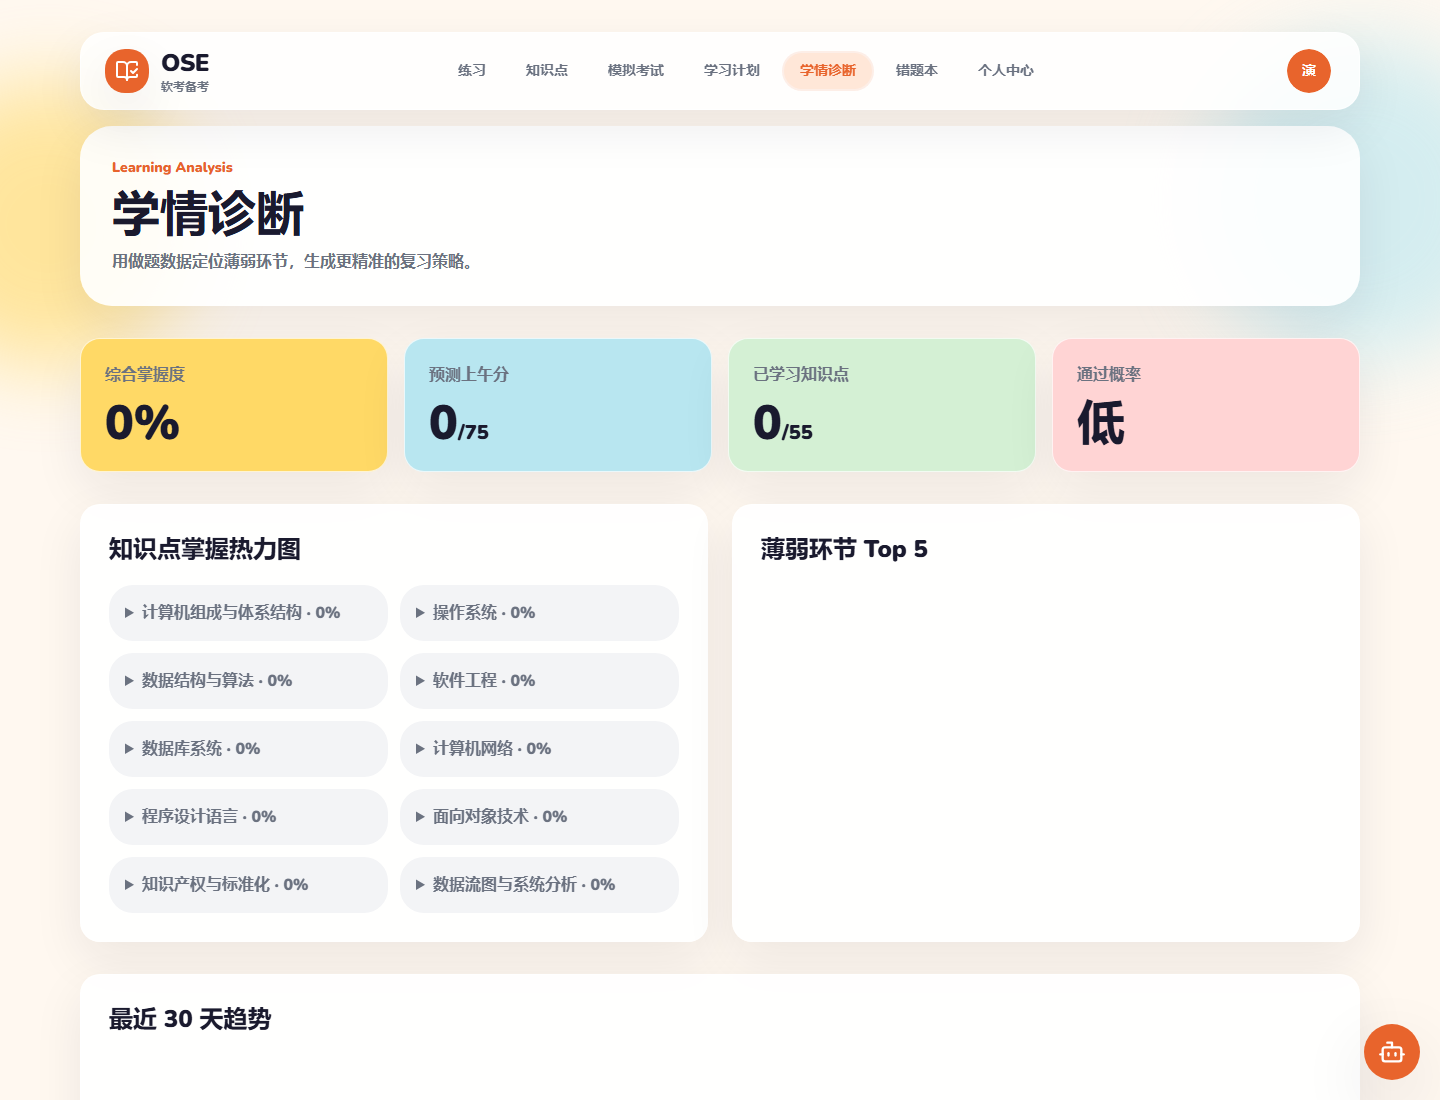
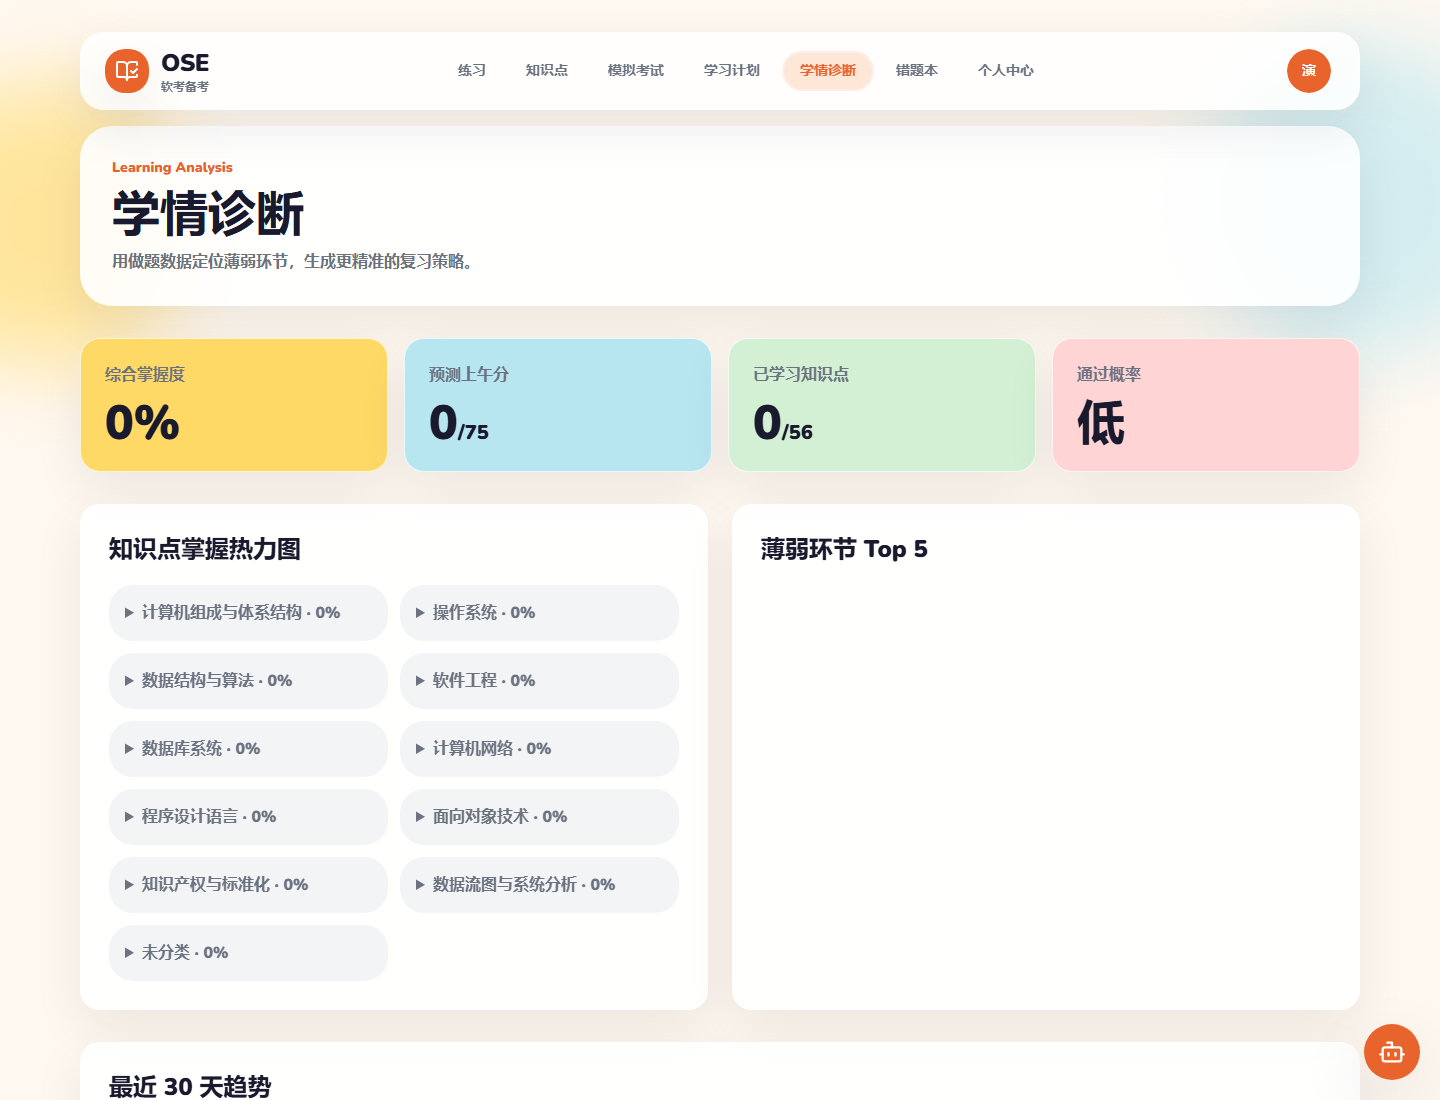
docs: refresh screenshots and README to reflect the 51CTO bank
- Re-captured dashboard / practice / knowledge / exam / analysis screenshots
  against the seeded DB so the marketing pages reflect real 41-paper / 1579-
  question state (e.g. knowledge tree shows actual per-leaf counts).
- README + README_CN: feature-list bullet now states the concrete bank size
  (41 papers / 1483 choice / 96 case scenarios / 263 sub-questions / 56
  knowledge points), Quick Start mentions where the seed data comes from,
  and the roadmap ticks off "历年真题内置".

diff --git a/README.md b/README.md
@@ -31,7 +31,7 @@ The core promise is simple: **AI-Powered**, **Open Source**, and **Self-hostable
 
 ## Features
 
-- 📚 **Smart question bank**: multiple-choice questions and case analysis questions covering the Software Designer syllabus.
+- 📚 **Built-in question bank**: 41 历年真题 (2014–2025) — 1483 multiple-choice questions and 96 case scenarios with 263 sub-questions, AI-classified into a 56-node knowledge tree, baked into the seed so a fresh `db:seed` immediately produces a usable study workspace.
 - 🤖 **AI assistance**: Claude, OpenAI, Gemini, and custom endpoints for explanations, grading, question generation, diagnosis, and study plans.
 - 📊 **Learning analytics**: mastery heatmaps, weak-area diagnosis, predicted scores, and pass probability evaluation.
 - 📝 **Mock exams**: realistic exam sessions with countdown timers, answer sheets, and result reports.
@@ -62,7 +62,7 @@ npx prisma db seed
 npm run dev
 ```
 
-Open `http://localhost:3000`, create an account, and start practicing.
+Open `http://localhost:3000`, create an account, and start practicing. The seed step loads 41 历年真题 / 1579 questions / 96 case scenarios from `data/51cto-seed.json` (built from `data/51cto-exams/`); see `data/51cto-exams/INDEX.md` for the source pipeline and licensing notes.
 
 ## Self-hosting Guide
 
@@ -98,7 +98,7 @@ node scripts/capture-screenshots.mjs
 - [x] Phase 3: AI 辅助（讲解/批改/出题/诊断/学习计划）
 - [x] Tauri 桌面版
 - [ ] 更多软考科目支持（信息系统项目管理师等）
-- [ ] 真题 PDF 自动导入解析
+- [x] 历年真题内置(2014–2025,41 套,1579 题)
 - [ ] PostgreSQL 生产部署支持
 - [ ] Docker Compose 一键部署
 - [ ] 国际化（i18n）
